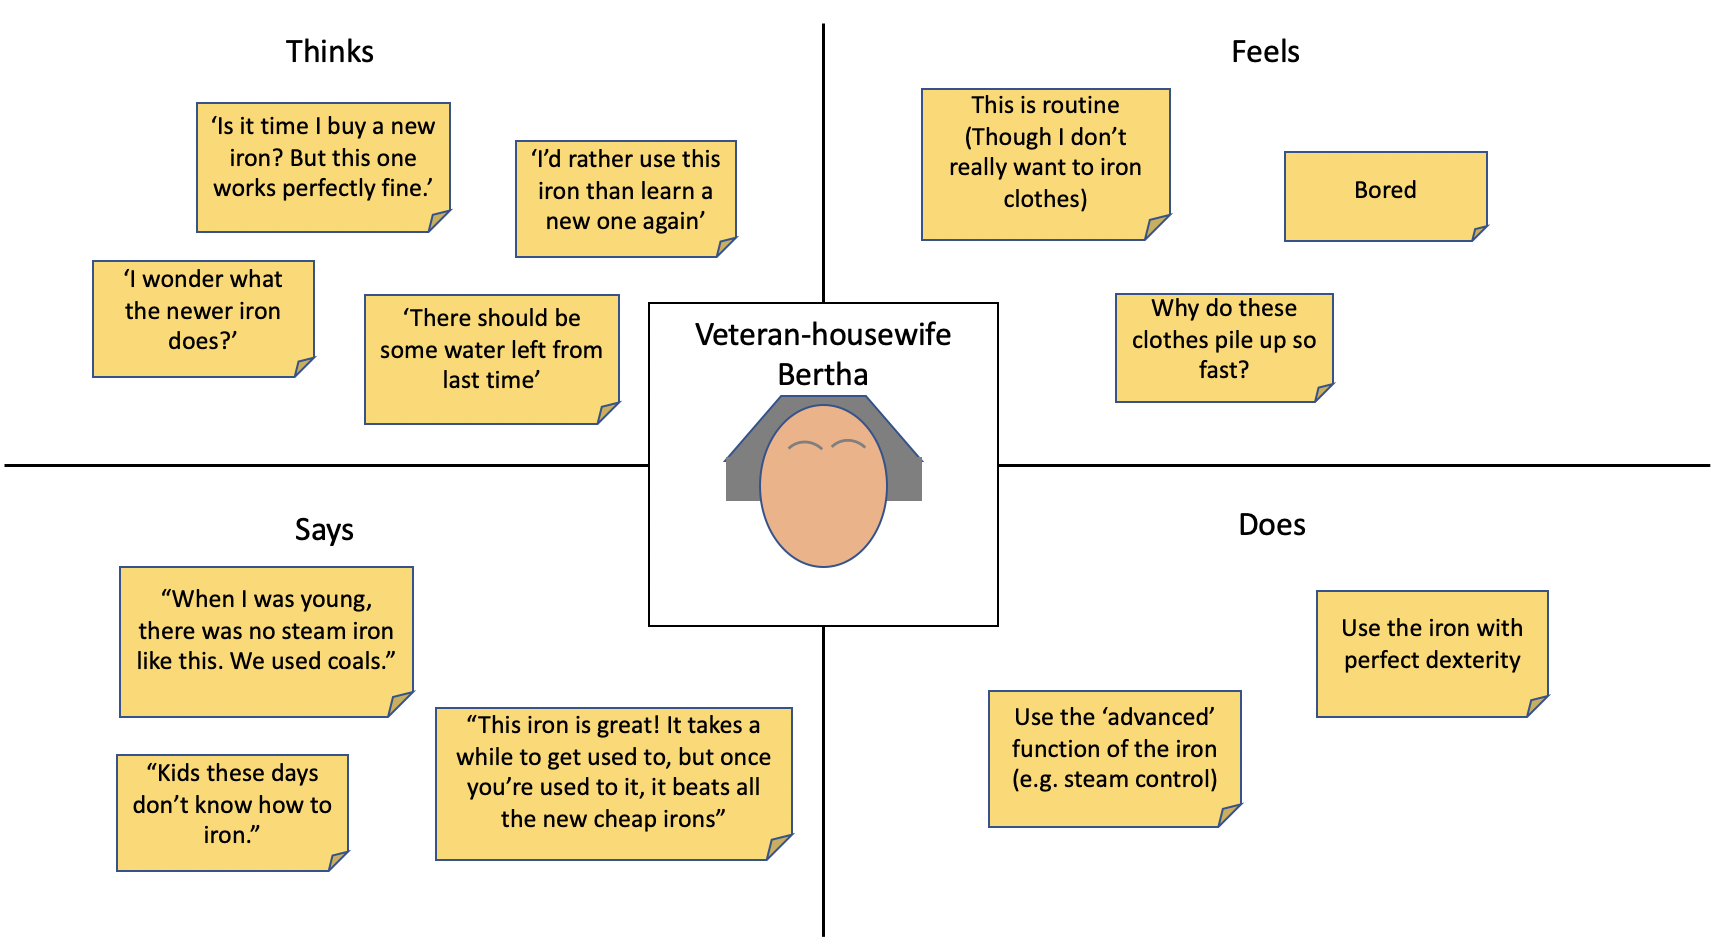
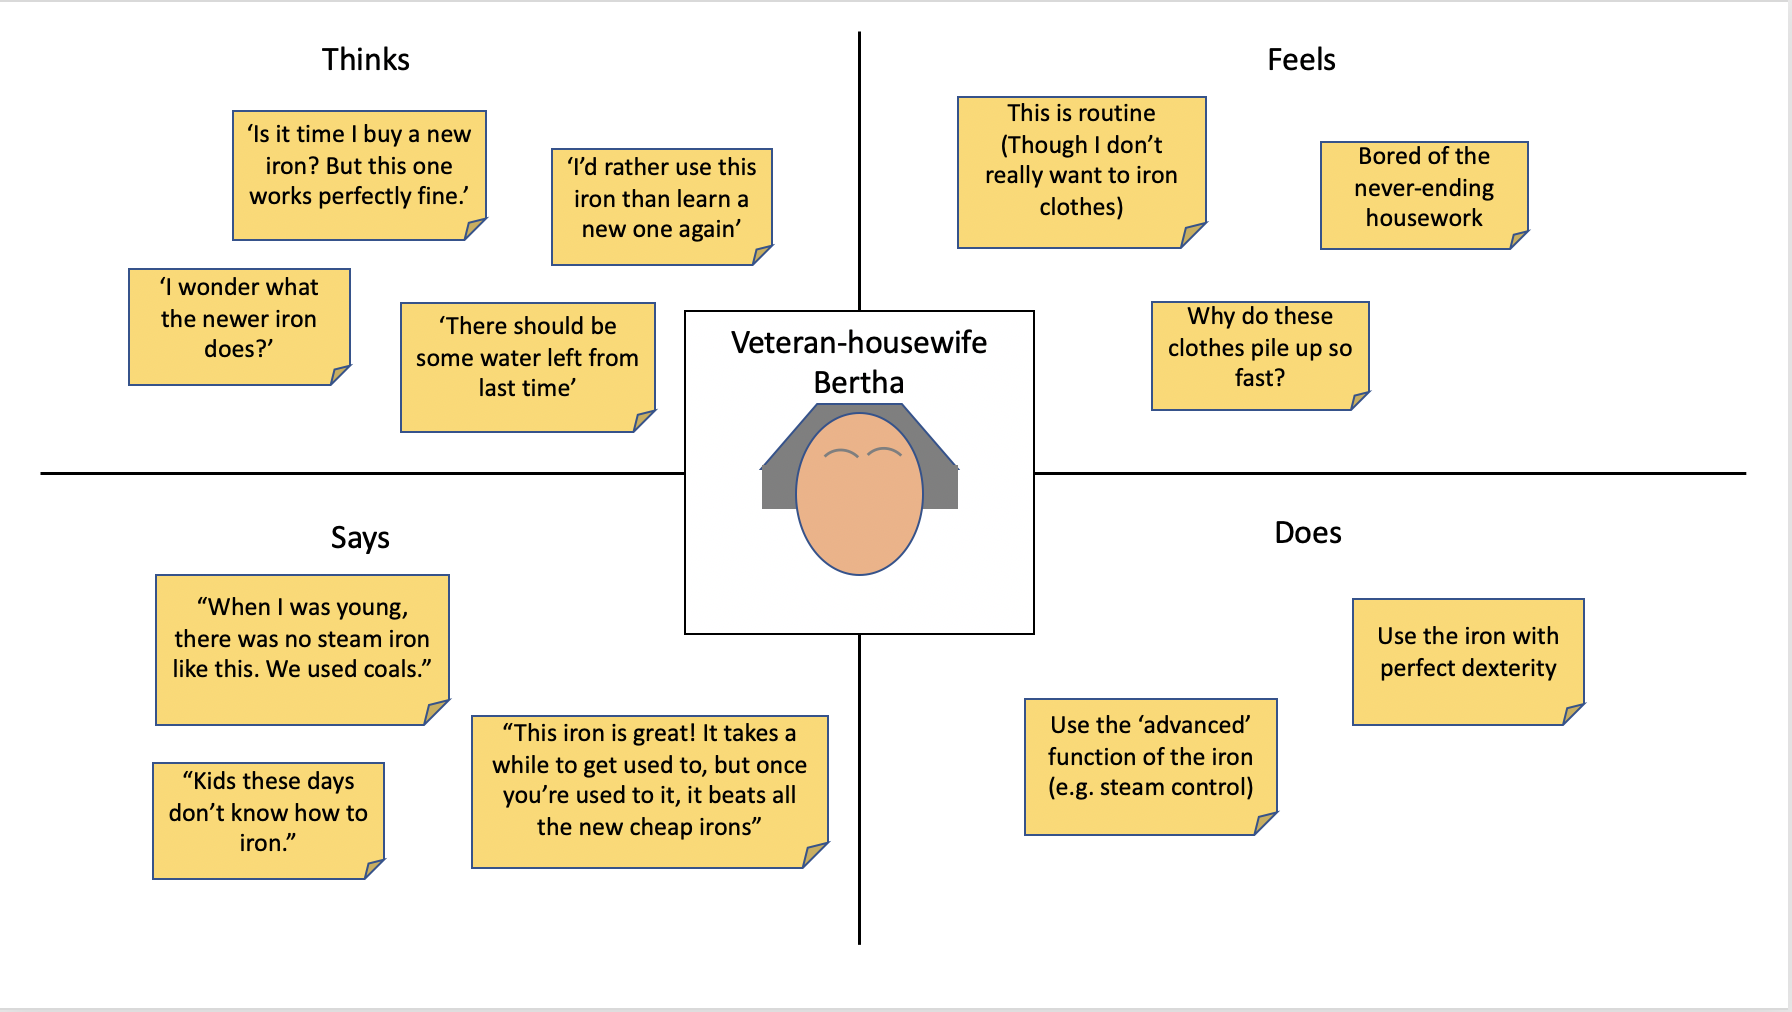
change bg, update persona

diff --git a/index.css b/index.css
@@ -1,6 +1,6 @@
 /* Put your style information here! */
 body {
-    background-color: lightgray;
+    background-color: beige;
     font-family: 'Piazzolla', serif;
     font-size: 20px;
   }
